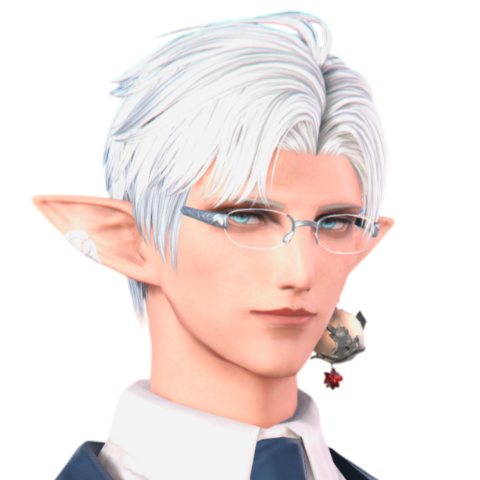
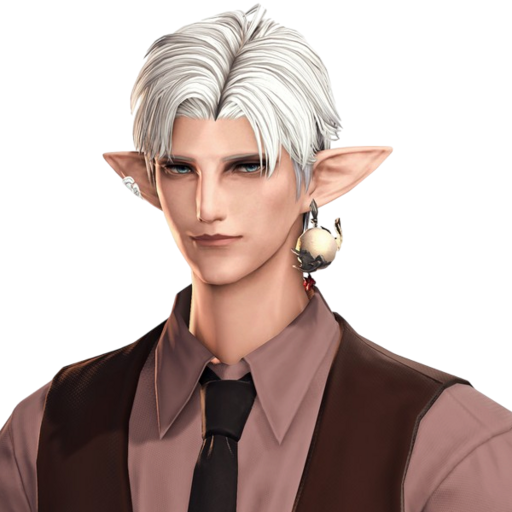
refactor: update potato brave assets and theme
Update profile images and theme color for 薯泥勇者 to match the new character design.

diff --git a/src/components/StaffAvatars.tsx b/src/components/StaffAvatars.tsx
@@ -28,7 +28,7 @@ export function StaffAvatar({ seed, avatarUrl, size = 'lg', className = '' }: St
     if (seed === 'luko' || photo.includes('t9yeCbC') || photo.includes('luko-avatar') || photo.includes('CMH9DxK')) {
       photo = '/staff/luko-avatar.png';
     }
-    if (seed === 'potatobrave' || photo.includes('QH6ChFc') || photo.includes('r22y8YXn') || photo.includes('GQQPYyrg') || photo.includes('zyMcfrb') || photo.includes('V4AC8Ds') || photo.includes('potatobrave')) {
+    if (seed === 'potatobrave' || photo.includes('0ca30OC') || photo.includes('QH6ChFc') || photo.includes('r22y8YXn') || photo.includes('GQQPYyrg') || photo.includes('zyMcfrb') || photo.includes('V4AC8Ds') || photo.includes('potatobrave')) {
       photo = '/staff/potatobrave-avatar.png';
     }
     if (seed === 'ptowo' || seed === 'p2' || photo.includes('SSZW8MH') || photo.includes('ptowo-avatar')) {
@@ -58,7 +58,7 @@ export function StaffAvatar({ seed, avatarUrl, size = 'lg', className = '' }: St
       objectPos = 'object-[center_19%]';
       zoomScale = 'scale-[1.65]';
       transformOrigin = 'origin-[center_19%]';
-    } else if (seed === 'potatobrave' || photo.includes('QH6ChFc') || photo.includes('r22y8YXn') || photo.includes('GQQPYyrg') || photo.includes('zyMcfrb') || photo.includes('potatobrave') || photo.includes('V4AC8Ds') || photo.includes('JuLHejO')) {
+    } else if (seed === 'potatobrave' || photo.includes('0ca30OC') || photo.includes('QH6ChFc') || photo.includes('r22y8YXn') || photo.includes('GQQPYyrg') || photo.includes('zyMcfrb') || photo.includes('potatobrave') || photo.includes('V4AC8Ds') || photo.includes('JuLHejO')) {
       // Dedicated square headshot with warm knight expression
       objectPos = 'object-center';
       zoomScale = 'scale-[1.05]';
@@ -96,7 +96,7 @@ export function StaffAvatar({ seed, avatarUrl, size = 'lg', className = '' }: St
           className={`w-full h-full object-cover ${zoomScale} ${transformOrigin} ${objectPos}`}
           referrerPolicy="no-referrer"
           onError={(e) => {
-            if (photo.includes('QH6ChFc') || photo.includes('r22y8YXn') || photo.includes('GQQPYyrg') || photo.includes('V4AC8Ds') || photo.includes('zyMcfrb') || photo.includes('potatobrave')) {
+            if (photo.includes('0ca30OC') || photo.includes('QH6ChFc') || photo.includes('r22y8YXn') || photo.includes('GQQPYyrg') || photo.includes('V4AC8Ds') || photo.includes('zyMcfrb') || photo.includes('potatobrave')) {
               e.currentTarget.src = '/staff/potatobrave-avatar.png';
             } else if (photo.includes('SSZW8MH')) {
               e.currentTarget.src = '/staff/ptowo-avatar.png';

diff --git a/src/data/cafeData.ts b/src/data/cafeData.ts
@@ -134,7 +134,7 @@ export const STAFF_MEMBERS: StaffMember[] = [
     role: 'butler',
     threadsHandle: '@potetoff14',
     threadsUrl: 'https://www.threads.net/@potetoff14',
-    photoUrl: 'https://i.meee.com.tw/QH6ChFc.png',
+    photoUrl: 'https://i.meee.com.tw/0ca30OC.png',
     avatarUrl: '/staff/potatobrave-avatar.png',
     quote: '「歡迎回來，我的主人～今天過得還好嗎？剩下的時間，請交給我吧。」',
     personality: '不擅長給予強硬的建議，也不會輕易否定任何人的選擇。比起告訴您應該怎麼做，更願意陪主人一起想。只要主人願意說，他就願意聽。',
@@ -150,7 +150,7 @@ export const STAFF_MEMBERS: StaffMember[] = [
     ff14Job: '騎士 / 傾聽者',
     favoriteDrink: '蜂蜜瑪芬',
     avatarSeed: 'potatobrave',
-    themeColor: '#2F3851',
+    themeColor: '#30211B',
     greetingVoiceLine: '「歡迎回來，我的主人～今天過得還好嗎？剩下的時間，請交給我吧。」',
     tags: ['溫柔執事', '真摯傾聽', '包容陪伴', '暖心蜂蜜瑪芬'],
     shiftStatus: 'available',

diff --git a/src/components/StaffPortrait.tsx b/src/components/StaffPortrait.tsx
@@ -22,7 +22,7 @@ export function StaffPortrait({ staff }: StaffPortraitProps) {
   // Render real photo if provided (e.g. 萊可 photo), otherwise bespoke detailed character illustration
   const renderCharacterIllustration = () => {
     if (imageSrc) {
-      const isPotatoBrave = staff.id === 'potatobrave' || imageSrc.includes('QH6ChFc') || imageSrc.includes('r22y8YXn') || imageSrc.includes('GQQPYyrg') || imageSrc.includes('zyMcfrb') || imageSrc.includes('V4AC8Ds') || imageSrc.includes('potatobrave');
+      const isPotatoBrave = staff.id === 'potatobrave' || imageSrc.includes('0ca30OC') || imageSrc.includes('QH6ChFc') || imageSrc.includes('r22y8YXn') || imageSrc.includes('GQQPYyrg') || imageSrc.includes('zyMcfrb') || imageSrc.includes('V4AC8Ds') || imageSrc.includes('potatobrave');
 
       return (
         <div className="w-full flex items-center justify-center">

diff --git a/src/components/ReservationSection.tsx b/src/components/ReservationSection.tsx
@@ -158,9 +158,9 @@ const getPersonalizedMaidMessage = (staffName: string, customerName: string) => 
       return {
         speaker: '薯泥勇者（執事）',
         avatarSeed: 'potatobrave',
-        photoUrl: 'https://i.meee.com.tw/QH6ChFc.png',
+        photoUrl: 'https://i.meee.com.tw/0ca30OC.png',
         quote: `「歡迎回來，我的主人 ${name}。剩下的時間請放心交給我吧。不用急著找到所有問題的答案，我已備好現烤熱騰騰的蜂蜜瑪芬，先陪您嚐點甜的。」`,
-        badgeColor: 'bg-blue-100 text-blue-800 border-blue-200',
+        badgeColor: 'bg-amber-950/10 text-[#30211B] border-[#30211B]/30',
       };
     case '陰濕男鬼':
       return {
